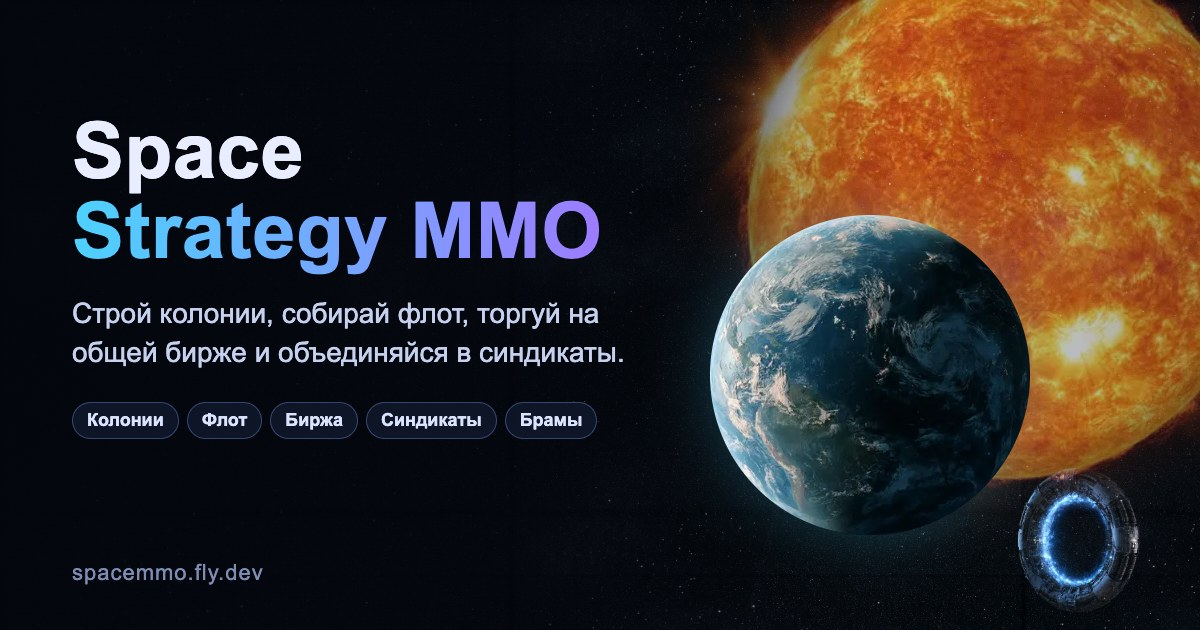
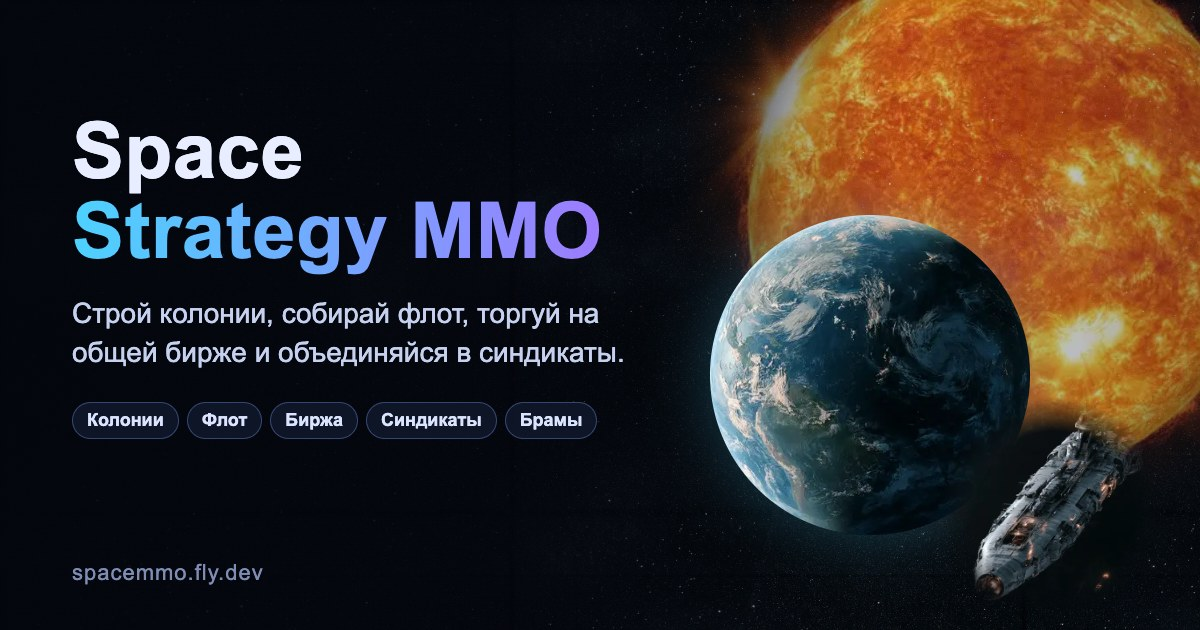
fix: на картинке превью крейсер вместо врат

Changed region(s): [[0.8017, 0.6333, 0.9558, 0.9651]]

diff --git a/public/index.html b/public/index.html
@@ -23,7 +23,7 @@
   <meta property="og:image:type" content="image/jpeg" />
   <meta property="og:image:width" content="1200" />
   <meta property="og:image:height" content="630" />
-  <meta property="og:image:alt" content="Space Strategy MMO: планета у звезды и врата синдиката" />
+  <meta property="og:image:alt" content="Space Strategy MMO: планета у звезды и крейсер" />
   <meta name="twitter:card" content="summary_large_image" />
   <meta name="twitter:title" content="Space Strategy MMO — космическая стратегия в браузере" />
   <meta name="twitter:description" content="Строй колонии, собирай флот, торгуй на общей бирже и объединяйся в синдикаты." />
